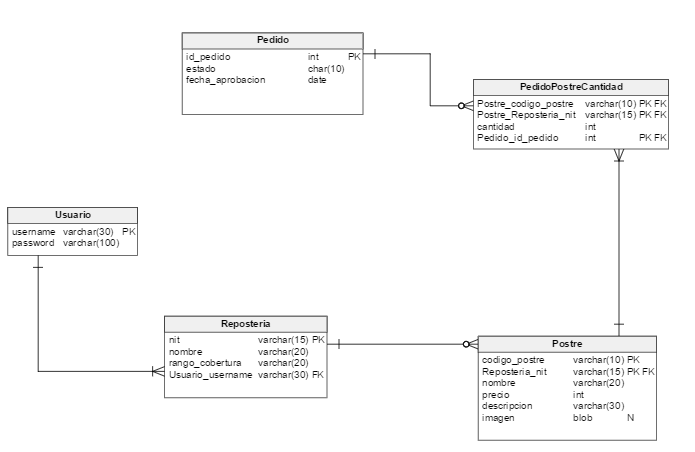
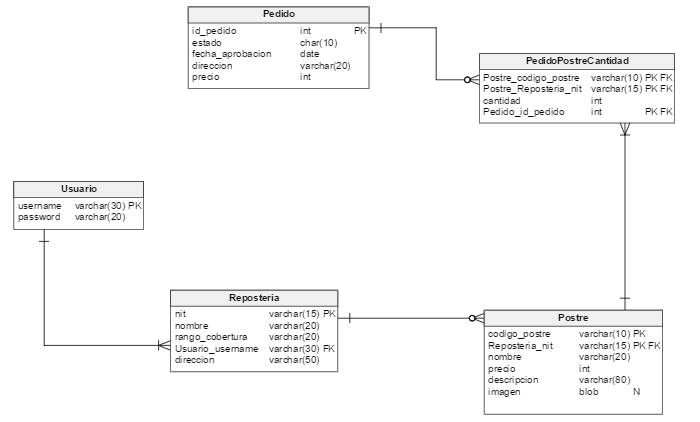
arreglo vista reposteria

Changed region(s): [[0.0604, 0.0, 0.9669, 0.9858], [0.0, 0.4313, 0.2115, 0.6161], [0.2719, 0.2464, 0.5137, 0.2773]]

diff --git a/src/main/resources/static/app/viewRegistroReposterias/viewRegistroReposterias.js b/src/main/resources/static/app/viewRegistroReposterias/viewRegistroReposterias.js
@@ -12,12 +12,13 @@ angular.module('myApp.viewRegistroReposterias', ['ngRoute'])
 .controller('ViewRegistroReposteriasCtrl', ['$scope','reposteriasINVIMA', 'reposterias','$http','reposteriasValidacion','$rootScope',function($scope,reposteriasINVIMA, reposterias,$http,reposteriasValidacion,$rootScope) {
         $rootScope.authenticated=false;
 
-        $scope.nit="";
+        $scope.nitR="";
         $scope.name ="";
          $scope.CoverageRange="";
       
         $scope.password="";
         $scope.validarNit="";
+        $scope.direccion="";
         $scope.validada=false;
         
   
@@ -26,9 +27,9 @@ angular.module('myApp.viewRegistroReposterias', ['ngRoute'])
            
             console.log("VALIDNADO INFORMACION CON EL INVIMA");
             
-            console.log($scope.nit);
-            if ($scope.nit==$scope.Validarnit){
-                reposteriasINVIMA.get({nit:$scope.nit},function(data){
+            console.log($scope.nitR);
+            if ($scope.nitR==$scope.Validarnit){
+                reposteriasINVIMA.get({nit:$scope.nitR},function(data){
                  console.info("consulta INVIMA registrada  ");
                 
                  console.log(data);
@@ -57,25 +58,32 @@ angular.module('myApp.viewRegistroReposterias', ['ngRoute'])
         
         $scope.agregarReposteria=function(){
             console.log("entro");
-            reposteriasValidacion.get({nit:$scope.nit},function(data){
+            reposteriasValidacion.get({nit:$scope.nitR},function(data){
                 
                 if(data.nit!=null){
                         $rootScope.authenticated=false;
                         $rootScope.nit="";
                     alert("el nit ya esta registrado en la pagina");
                 }else{
-                    var newUser={"username":$scope.nit,"password":$scope.password};
-                    var newReposteria={"nit":$scope.nit,"name":$scope.name,"postres":[], "coverageRange":$scope.CoverageRange, "usuario":newUser};
+                    var newUser={"username":$scope.nitR,"password":$scope.password};
+                    var newReposteria={"nit":$scope.nitR,"name":$scope.name,"postres":[], "coverageRange":$scope.CoverageRange, "usuario":newUser,"direccion":$scope.direccion};
                     console.log(newReposteria);    
                         
                         
                          reposterias.save(newReposteria,function(){
                                console.info("saved   "+ newReposteria);
-                                  $scope.nit="";
+                                  $scope.nitR="";
+                                    $scope.Validarnit="";
+                                    $scope.password="";
                                   $scope.name="";
                                   $scope.CoverageRange="";
                                   $rootScope.authenticated=false;
                                   $rootScope.nit="";
+                                  $scope.direccion="";
+                                  document.getElementById("nitReposteria").disabled = false;
+                                  document.getElementById("nitReposteriaV").disabled = false;
+                                  alert("reposteria guardada");
+                                  
                                  // $scope.description="";
                          });
                 }

diff --git a/src/main/resources/static/app/viewRegistroReposterias/viewRegistroReposterias.html b/src/main/resources/static/app/viewRegistroReposterias/viewRegistroReposterias.html
@@ -1,16 +1,16 @@
 
 <div   id="page-wrapper"  class="5grid-layout">
   
-    
-     <div class="invima">
-         <input type="text" ng-model = "nit" placeholder="NIT" disable="false" id="nitReposteria" required maxlength="15" />            
+    <div class="input-group">
+     <div>
+         <input type="text" ng-model = "nitR" placeholder="NIT" disable="false" id="nitReposteria" required maxlength="15" />            
          <br> <input type="text" ng-model = "Validarnit" placeholder="confirmar NIT" disable="false" id="nitReposteriaV" required maxlength="15" />            
  
      </div>     
       <br>
      <button ng-click="validarINVIMA()" class="btn btn-primary btn-large"  >validar con el invima</button>
      <br>
-     <div class="input-group" ng-show="validada">
+     <div  ng-show="validada">
 
             <ul>
                 <input type="text"  ng-model = "name" placeholder="Nombre" required maxlength="20"/>
@@ -23,7 +23,11 @@
 
             <br>
             <ul>
-                <input type="text" ng-model = "password" placeholder="Password" required="true" maxlength="20">
+                <input type="text" ng-model = "direccion" placeholder="Direccion" required="true" maxlength="50">
+            </ul>
+            <br>
+            <ul>
+                <input type="password" ng-model = "password" placeholder="Password" required="true" maxlength="20">
             </ul>
             <ul>
                 <button ng-click="agregarReposteria()" type="submit" class="btn btn-primary btn-large">Agregar reposteria</button>
@@ -34,7 +38,7 @@
      </div>
 
   
-    
+    </div>
 </div>
      
            

diff --git a/src/main/java/edu/eci/cosw/postresYa/model/Reposteria.java b/src/main/java/edu/eci/cosw/postresYa/model/Reposteria.java
@@ -34,6 +34,7 @@ public class Reposteria implements java.io.Serializable  {
    private List<Postre> postres= new ArrayList<Postre>();
     private String coverageRange; //no sabemos como tratar el rango
     private Usuario usuario;
+    private String direccion;
 
     /**
      * Constructor sin parametros de la reposteria
@@ -47,15 +48,17 @@ public class Reposteria implements java.io.Serializable  {
      * @param nit //NIT de identificacion de la reposteria
      * @param name // Nombre de la reposteria
      * @param coverageRange // Rando de cobertura de la reposteria
+     * @param postres
 
      */
-    public Reposteria(String nit,String name,String coverageRange,List<Postre> postres,Usuario usuario){
+    public Reposteria(String nit,String name,String coverageRange,List<Postre> postres,Usuario usuario,String direccion){
         this.nit=nit;
         this.name=name;
         this.coverageRange=coverageRange;
         //postres=new ArrayList<Postre>();
         this.postres=postres;
         this.usuario=usuario;
+        this.direccion=direccion;
     }
  
     /**
@@ -140,5 +143,13 @@ public class Reposteria implements java.io.Serializable  {
         this.usuario = usuario;
     }
  
+    @Column(name = "direccion",  nullable = false)
+    public String getDireccion() {
+        return direccion;
+    }
+
+    public void setDireccion(String direccion) {
+        this.direccion = direccion;
+    }
     
 }

diff --git a/src/main/java/edu/eci/cosw/postresYa/services/PostresServicesImp.java b/src/main/java/edu/eci/cosw/postresYa/services/PostresServicesImp.java
@@ -55,18 +55,7 @@ public class PostresServicesImp implements PostresYaServices{
      
     }
 
-   
-    @Override
-    public InputStream getPostrePicture(String code) throws PostreException {
-        try {
-            return new FileInputStream("src/main/resources/static/app/images/Postre1.png");
-        } catch (FileNotFoundException ex) {
-            return null;
-            //Logger.getLogger(ServicesPostre.class.getName()).log(Level.SEVERE, null, ex);
-        }
-        
 
-    }
 
     @Override
     public Postre getPostre(String nit, String code) throws PostreException {

diff --git a/src/main/java/edu/eci/cosw/postresYa/services/PostresYaServices.java b/src/main/java/edu/eci/cosw/postresYa/services/PostresYaServices.java
@@ -20,12 +20,7 @@ public interface PostresYaServices {
     Postre getPostre(String nit,String code) throws PostreException;
     void addPostre(Postre postre,String nit) throws PostreException;
     void changePostre(Postre postre,String nit) throws PostreException;
-  
-
-    public InputStream getPostrePicture(String code) throws PostreException;
-    
-    
-    
+     
       Reposteria getReposteriaByNit(String nit) throws PostreException;
     void saveReposteria(Reposteria reposteria) throws PostreException;
     List<Reposteria> getAllReposterias() throws PostreException;

diff --git a/src/main/java/edu/eci/cosw/postresYa/controller/ReposteriaController.java b/src/main/java/edu/eci/cosw/postresYa/controller/ReposteriaController.java
@@ -76,7 +76,7 @@ public class ReposteriaController {
     
     @RequestMapping(method = RequestMethod.POST)
     public void saveReposteria(@RequestBody Reposteria reposteria){
-        System.out.println("enmtro"+ reposteria.getNit()+"   "+ reposteria.getUsuario().getPassword());
+        //System.out.println("entro"+ reposteria.getNit()+"   "+ reposteria.getUsuario().getPassword());
         try {
             stubReposteria.saveReposteria(reposteria);
         } catch (PostreException ex) {
